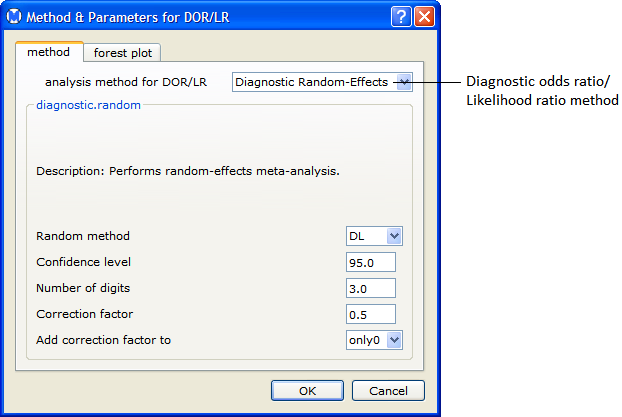
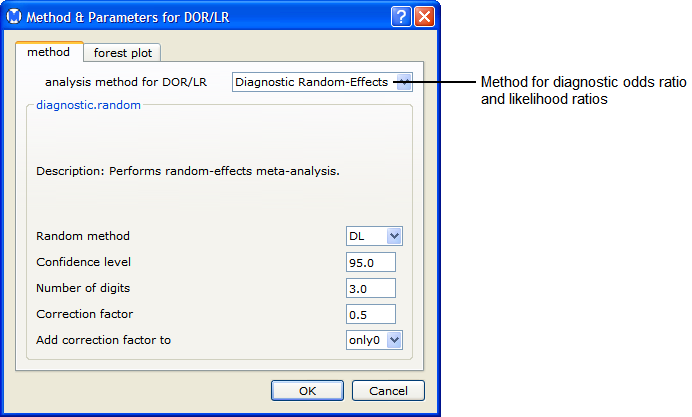
Last call for doc.

Changed region(s): [[0.0, 0.0, 1.0, 1.0], [0.0, 0.0, 0.3666, 0.0624], [0.3666, 0.9041, 0.4582, 0.9664]]

diff --git a/doc/diagnostic_analysis.html b/doc/diagnostic_analysis.html
@@ -15,25 +15,26 @@ type=text/css rel=stylesheet>
        <p><img src="images/diagnostic_metrics_dialog.png"></p>
        <p>If you select <b>likelihood ratio</b>, both a positive likelihood ratio and a negative likelihood ratio analysis are performed.</li> 
       
-    <li>Click <b>next</b>. Depending on which metrics you select, one or both of the dialogs shown below are displayed.<br><br>
+    <li>Click <b>next</b>. Depending on which metrics you select in the preveious step, one or both of the dialogs shown below are displayed.<br><br>
       <ol type="a">
-          <li>If you select either <b>sensitivity</b> or <b>specificity</b>, the Method & Parameters for Sens./Spec. dialog is displayed, in which you can choose a method and parameters for both the sensitivity and             specificity analyses. 
+          <li>If you select either <b>sensitivity</b> or <b>specificity</b>, the Method & Parameters for Sens./Spec. dialog is displayed, in which you can choose a method and parameters for both the sensitivity and             specificity analyses. In this example, the method is <b>Bivariate (Maximum Likelihood)</b>, which uses a bivariate model for sensitivity and specificity.
                <p><img src="images/method_dialog_sens_spec.png"></p>
+          <p><b>Note:</b> If you select either <b>Diagnostic Fixed-Effect</b> or <b>Diagnostic Random-Effects</b> as the method for sens/spec., Open Meta-Analyst does not use a bivariate model. Instead, it performs two separate meta-analyses for sensitivity and specificity, using a univariate model in each case.</p>
           </li>
-          <li> If you select either <b>likelihood ratio</b> or <b>diagnostic odds ration</b>, the Method & Parameters for Sens./Spec. dialog is displayed, in which you can choose a method and parameters for both the likelihood ratio and diagnostic odds ratio analyses.
+          <li> If you select either <b>likelihood ratio</b> or <b>diagnostic odds ration</b>, the Method & Parameters for DOR/LR dialog is displayed, in which you can choose a method and parameters for both the likelihood ratio and diagnostic odds ratio analyses.
                 <p><img src="images/method_dialog_dor-lr.png"></p>
-              <p><b>Note:</b> If you select neither <b>likelihood ratio</b> nor <b>diagnostic odds ratio</b>, the dialog above is not displayed.</p>
-              </li>
+          </li>
     </ol></li>
     <li>Click <b>OK</b> to run the analysis.</li>
   </ol>
-  <p>For each selected method, the results pane displays a summary and forest plot, just as for a meta-analysis of binary data.  The forest plot for sensitivity is shown below.</p>
-  <p><img src="images/sens_spec.png"></p>
-  <p>If you selet both <b>sensitivity</b> and <b>specificity</b>, the forest plots for sensitivity and specificity are displayed side-by-side. Also, an ROC plot of sensitivity and specificity is displayed, as shown below.</p>
-  <p><img src="images/roc.png"></p>
+  <p>For each selected method, the results pane displays a summary of the results.  Since, in this example, the selected method for sensitivity and specificity is Bivariate (Maxiumum Likelihood) the results pane displays a standard receiver operating curve (SROC) of sensitivity by 1 - specificity, as shown below.</p>
+  <p><img src="images/bivariate_summary.png"></p>
+  <p><img src="images/bivariate.png"></p>
+  <p>
+  <p>Since the selected method for likelihood ratio is Diagnostic Random-Effects, Open Meta-Analysis performs separate meta-analyses for positive and negative likelihood ratios and diagnostic odds ratio, and displays forest plots of the results.
+  The negative likelihood ratio forest plost is shown below.</p>
+  <p><img src="images/forest_nlr.png"></p>
   
- <p>Similarly, if you select 
-  <b>likelihood ratio</b>, the positive and negative likelihood ratio forest plots are displayed side-by-side. If you select <b>diagnostic odds ratio</b>, a single forest plot is displayed.</p>
   <p><a href="#top">Back to top</a></p>
   <br>
   <table id="nav" cellspacing="0"><tr valign="center"><td align="left" width="20"><a href="entering_data.html#top"><img src="images/b_prev.gif" border="0"></td><td align="left">Entering and Saving Data</td></a><td>&nbsp;</td><td align="right">Fixed and Random Effects Models</td><td align="right" width="20"><a href="fixed_vs_random.html#top"><img src="images/b_next.gif" border="0"></a></td></tr></table>

diff --git a/doc/analysis_metrics.html b/doc/analysis_metrics.html
@@ -55,16 +55,6 @@ type=text/css rel=stylesheet>
 	<td><img src="images/eq_arcsin_risk_diff_variance.png"
 	<td></td>
 </tr>
-<tr align="center">
-	<td align="left"><b>YUQ</b> - Yule's Q</td>
-	<td></td>
-	<td></td>
-</tr>
-<tr align="center">
-	<td align="left"><b>YUY</b> - Yule's Y</td>
-	<td></td>
-	<td></td>
-</tr>
 </table>
  
 <h4>One-Arm Metrics</h4>
@@ -106,45 +96,70 @@ type=text/css rel=stylesheet>
 <h4>Two-Arm Metrics</h4>
 <table cellspacing="0" cellpadding="5" border="1">
 <tr align="center">
-	<td align="left" width=20><b>Metric</td>
+	<td align="left" width=200><b>Metric</td>
 	<td><b>Effect size</b></td>
 	<td><b>Variance</b></td>
 </tr>
 <tr align="center">
-	<td align="left"><b>MD</b> - Mean Difference</td>
+	<td align="left" width=40><b>MD</b> - Mean Difference</td>
 	<td><img src="images/eq_odds_ratio2.png"></td>
 	<td><img src="images/eq_odds_ratio_var.png"></td>
 </tr>
 <tr align="center">
-	<td align="left"><b>SMD</b> - Standardized Mean Difference</td>
+	<td align="left" width=40><b>SMD</b> - Standardized Mean Difference</td>
 	<td><img src="images/eq_risk_difference.png"></td>
 	<td><img src="images/eq_risk_diff_var.png"></td>
 </tr>
 </table>	
-  	  <li>Two-Arm Metrics:
-        <ul>
-          <li></li>
-         <li><b>SMD</b> - Standardized Mean Difference</li>
-       </ul> 
-     </li>
-      <li>One-Arm Metrics:
-        <ul>
-          <li><b>TX Mean</b> - Treatment Mean</li>
-        </ul> 
-     </li>
-  	</ul>
+
+<h4>One-Arm Metric</h4>
+<table cellspacing="0" cellpadding="5" border="1">
+<tr align="center">
+	<td align="left" width=200><b>Metric</td>
+	<td><b>Effect size</b></td>
+	<td><b>Variance</b></td>
+</tr>
+<tr align="center">
+	<td align="left" width=20><b>TX Mean</b> - Treatment Mean</td>
+	<td><img src="images/eq_odds_ratio2.png"></td>
+	<td><img src="images/eq_odds_ratio_var.png"></td>
+</tr>
+</table>	
+   
   	<h3>Metrics for Diagnostic Data</h3>
-  	<ul>
-  	   <li><b>sensitivity:</b> &nbsp;&nbsp;&nbsp;&nbsp; TP / (TP + FN)</li>
-  	   <li><b>specificity:</b> &nbsp;&nbsp;&nbsp;&nbsp; TN / (TN + FP)</li>
-  	   <li><b>likelihood ratio</b>
-  	       <ul>
-  	           <li><b>Positive likelihood ratio:</b> &nbsp;&nbsp;&nbsp;&nbsp; sensitivity / (1 - specificity)</li>
-  	           <li><b>Negative likelihood ratio:</b> &nbsp;&nbsp;&nbsp;&nbsp; (1 - sensitivity) / specificity</li>
-  	       </ul>
-  	    </li>
-  	    <li><b>diagnostic odds ratio:</b> &nbsp;&nbsp;&nbsp;&nbsp; (TP + TN) / (FP + FN)</li>
-   </ul>
+  	<table cellspacing="0" cellpadding="5" border="1">
+<tr align="center">
+	<td align="left" width=200><b>Metric</td>
+	<td><b>Effect size</b></td>
+
+</tr>
+<tr align="center">
+	<td align="left"><b>Sensitivity</td>
+	<td>TP / (TP + FN)</td>
+
+</tr>
+<tr align="center">
+	<td align="left">Specificity</td>
+	<td>TN / (TN + FP)</td>
+
+</tr>
+<tr align="center">
+	<td align="left">Positive Likelihood Ratio</td>
+	<td>sensitivity / (1 - specificity)</td>
+
+</tr>
+<tr align="center">
+	<td align="left">Negative Likelihood Ratio</td>
+	<td>(1 - sensitivity) / specificity</td>
+
+</tr>
+<tr align="center">
+	<td align="left">Diagnostic Odds Ratio</td>
+	<td>(TP + TN) / (FP + FN)</td>
+
+</tr>
+</table>	
+  	
 <p><a href="#top">Back to top</a></p>
 <br>
  <table id="nav" cellspacing="0"><tr valign="center"><td align="left" width="20"><a href="diagnostic_only_methods.html#top"><img src="images/b_prev.gif" border="0"></td><td align="left">Diagnostic-Only Methods</td></a><td>&nbsp;</td><td align="right">Forest Plot Options</td><td align="right" width="20"><a href="plot_options.html#top"><img src="images/b_next.gif" border="0"></td></a></td></tr></table>   

diff --git a/doc/diagnostic_only_methods.html b/doc/diagnostic_only_methods.html
@@ -12,13 +12,15 @@ type=text/css rel=stylesheet>
     </ul>
     
   <h3><a name="bivariate">Bivariate (Maximum Likelihood)</a></h3>
-  <p>The bivariate maximimum likelihood method uses a bivariate model to estimate the sensitivity and specificity (or positive and negative likelihood ratios) for diagnostic data. The model is defined as follows:</p>
+  <p>The bivariate maximimum likelihood method uses a bivariate model to estimate the sensitivity and specificity (or positive and negative likelihood ratios) for diagnostic test data. The model is defined as follows:</p>
   <eq><img src="images/bivariate_model1.png"></eq>
   <p>where the covariance matrix is</p>
   <eq><img src="images/bivariate_model2.png"></eq>
-  <p>The method finds the maximal likilhood estimate of the probability of of a positive test result</p> 
-  <h3><a name="HSROC">HSROC - Hierarchical standard receiver operating cuve</a></h3>
-  ,<p>
+  <p>The method finds the maximal likelilhood estimate of the probability of a positive test result.</p> 
+  <h3><a name="HSROC">HSROC - Hierarchical standard receiver operating curve</a></h3>
+  <p>The HSROC method performs a joint meta-analysis of
+sensitivity and specificity of diagnostic test data.  Estimation is carried out using a Bayesian
+approach, implemented via a Gibbs sampler. See <a href="analysis_options.html">Analysis Options</a> for a description of the available options for the method.</p>
   <p><a href="#top">Back to top</a></p>
 <br>
  <table id="nav" cellspacing="0"><tr valign="center"><td align="left" width="20"><a href="random-effects_methods.html#top"><img src="images/b_prev.gif" border="0"></td><td align="left">Random-Effects Methods</td></a><td>&nbsp;</td><td align="right">Metrics</td><td align="right" width="20"><a href="analysis_metrics.html#top"><img src="images/b_next.gif" border="0"></td></a></td></tr></table>
